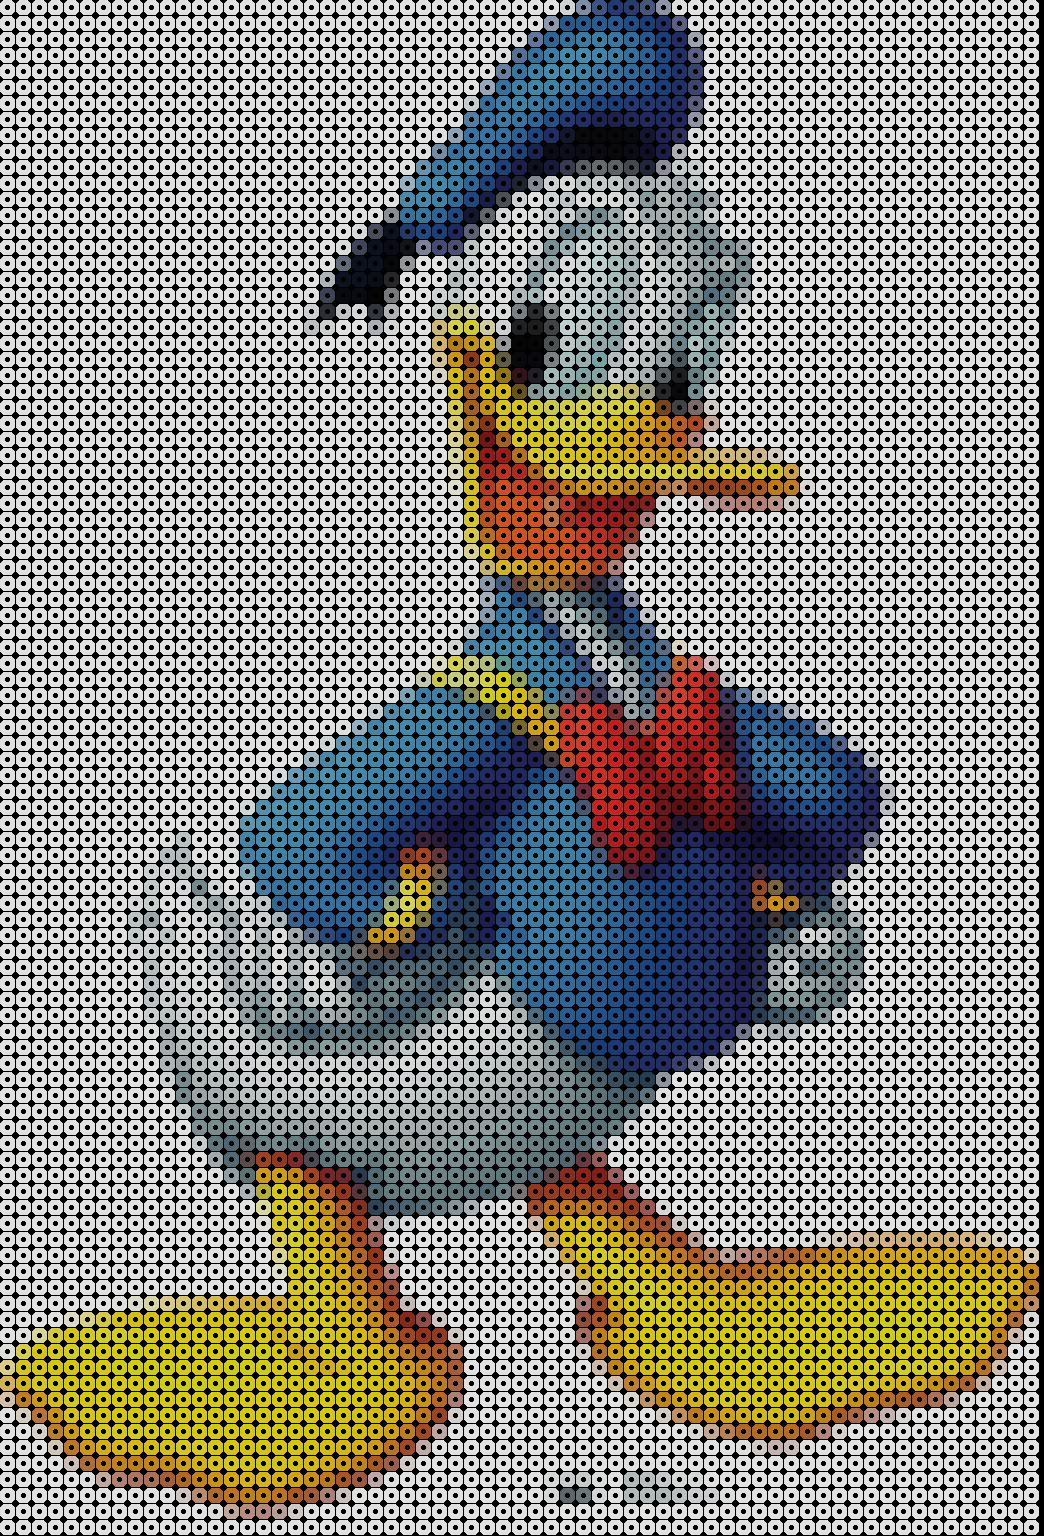
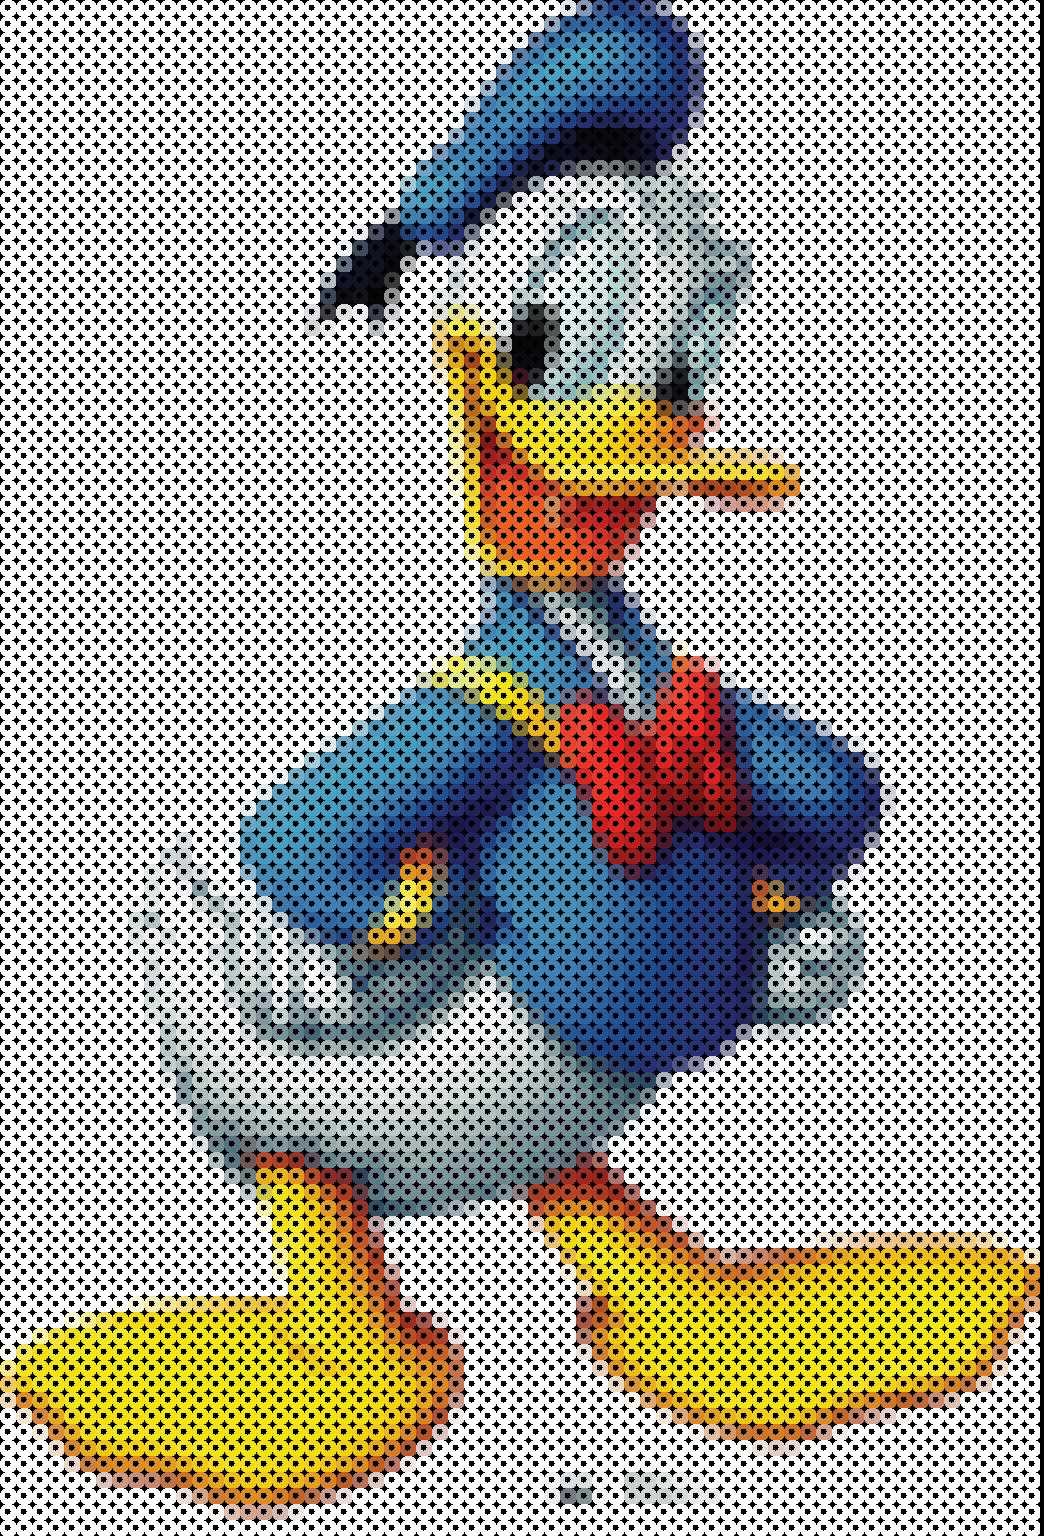
removed offbyone and replaced it with a grid

diff --git a/beads.py b/beads.py
@@ -8,7 +8,7 @@ from colormath.color_conversions import convert_color
 from datetime import timedelta
 import math
 
-__version__ = 1.2
+__version__ = 1.3
 
 """ Fast but inaccurate way to find the distance between 2 colors """
 def colordistance(color1, color2):
@@ -104,8 +104,7 @@ def beads(image, beadcolors={}, fastcolor=False, progress=True, xgrid=8, ygrid=8
     for y in xrange(0,yblocks):
         xstart = 0
         for x in xrange(0,xblocks):
-            """ The -1 is not a bug but just a easy way to create a seperator until I convert the squares into beads """
-            box = (xstart, ystart, xstart+xgrid-1, ystart+ygrid-1)
+            box = (xstart, ystart, xstart+xgrid, ystart+ygrid)
             region = orig.crop(box)
 
             ravg, gavg, bavg = 0, 0, 0
@@ -163,6 +162,13 @@ def beads(image, beadcolors={}, fastcolor=False, progress=True, xgrid=8, ygrid=8
 
             xstart+=xgrid
         ystart+=ygrid
+
+    if mode!='beads':
+        d = ImageDraw.Draw(im)
+        for y in xrange(0,im.height,ygrid):
+            for x in xrange(0,im.width,xgrid):
+                d.line((x,y,im.height,y),fill=(0,0,0))
+                d.line((x,0,x,im.height),fill=(0,0,0))
 
     if output=='':
         im.show()
